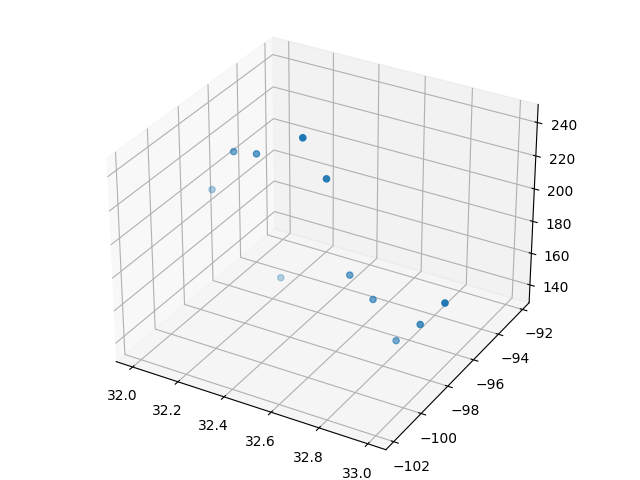
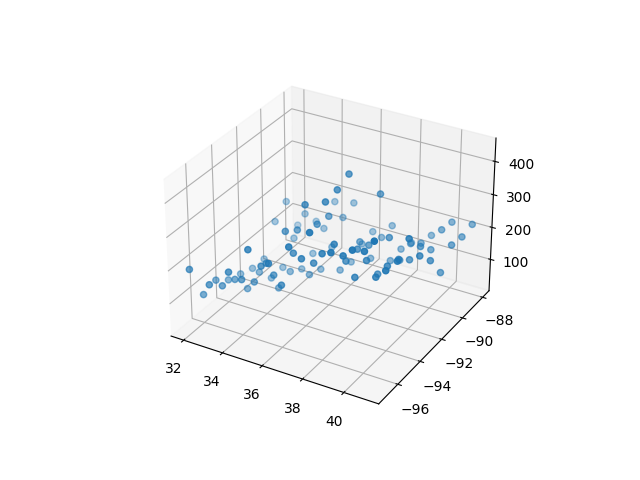
implemented and visualized 3d data points with google polyline format

diff --git a/src/data.py b/src/data.py
@@ -1,9 +1,27 @@
 import numpy as np
+import polyline as pl
 import requests
 
-# request height data from opentopodata
-loc= '32,-97 | 32.1, -97 | 32.2, -97 | 32.3, -97 | 32.4, -97 | 32.5, -97 | 32.6, -97 | 32.7, -97 | 32.8, -97 | 32.9, -97 | 33, -97'
 
+def gen_map(o,x,y,a):
+    
+    # obtain pair values
+    xs = np.arange(o[0],o[0]+x,1/a)
+    ys = np.arange(o[1],o[1]+y,1/a)
+    
+    # format pairs
+    result = []
+    for i in xs:
+        for j in ys:
+            result.append( (i,j) )
+    # return google polyline format
+    return(pl.encode(result))
+
+
+# generate coordinate pairs
+loc = gen_map([32,-97],10,10,1)
+
+# request height data from opentopodata
 params = {'locations':loc,'interpolation':'cubic'}
 url = 'https://api.opentopodata.org/v1/ned10m'
 r = requests.get(url,params=params)

diff --git a/src/process.py b/src/process.py
@@ -2,11 +2,14 @@ import data
 import matplotlib.pyplot as plt
 from mpl_toolkits.mplot3d import Axes3D
 
+# collect data
 x,y,z = data.x,data.y,data.z
 
-fig = plt.figure()
-ax = Axes3D(fig)
+# setup and plot data
+fig,ax = plt.subplots(subplot_kw={"projection":"3d"})
 ax.scatter(x,y,z)
+
+# show visual
 plt.savefig("../out/fig.png")
 plt.show()
 
